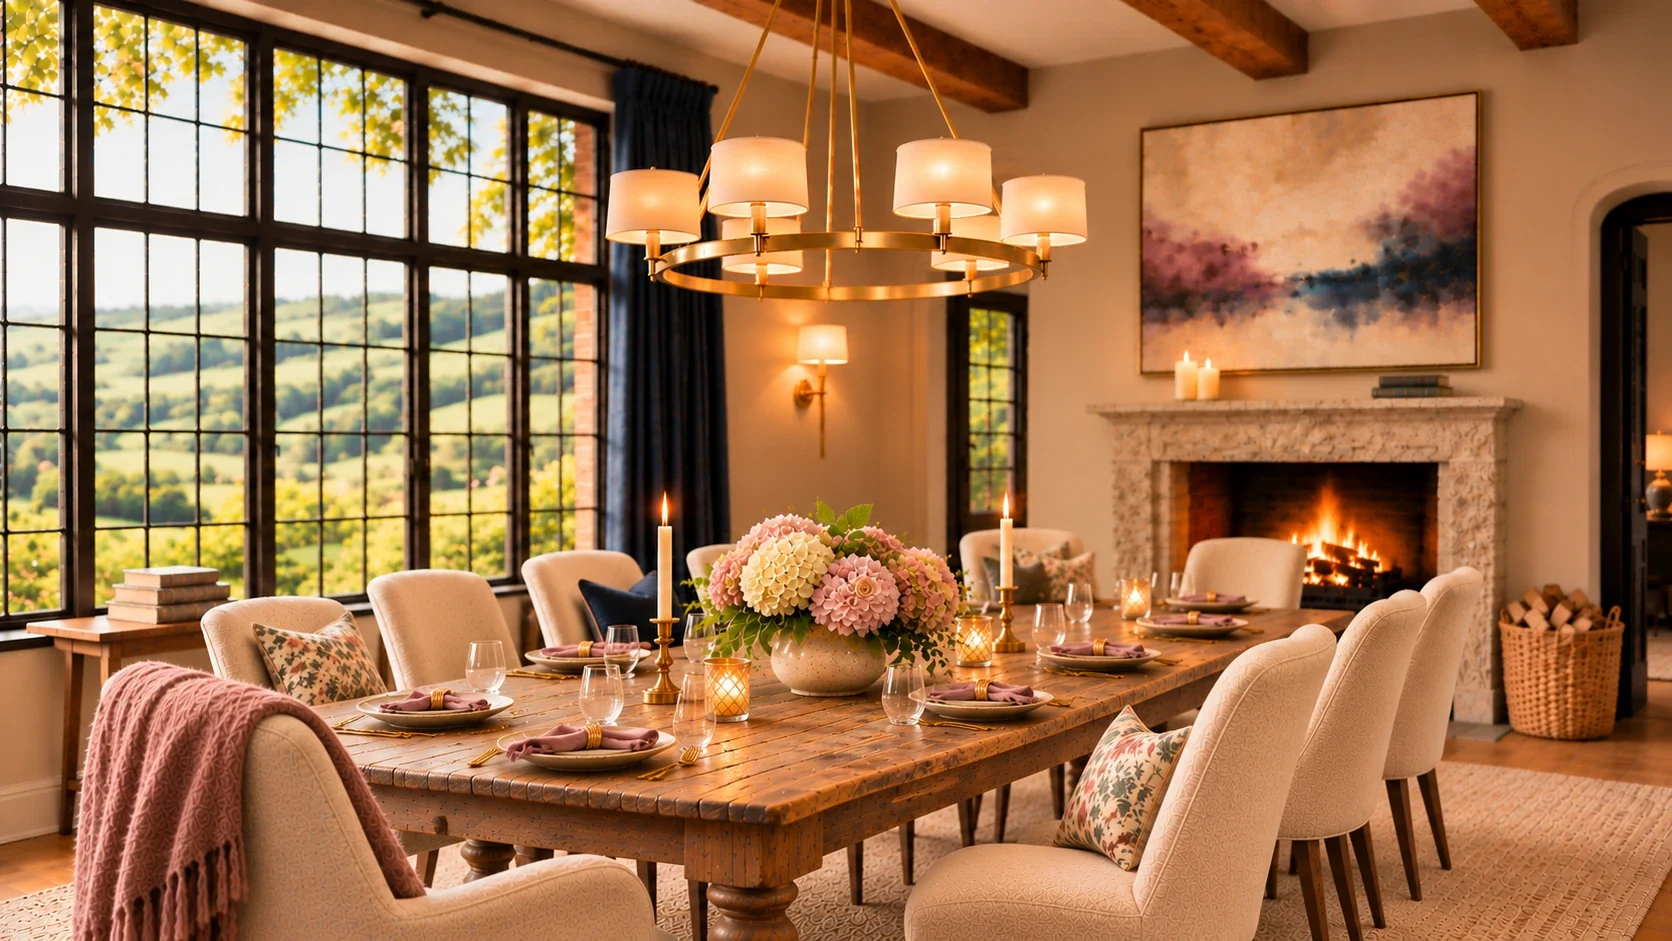
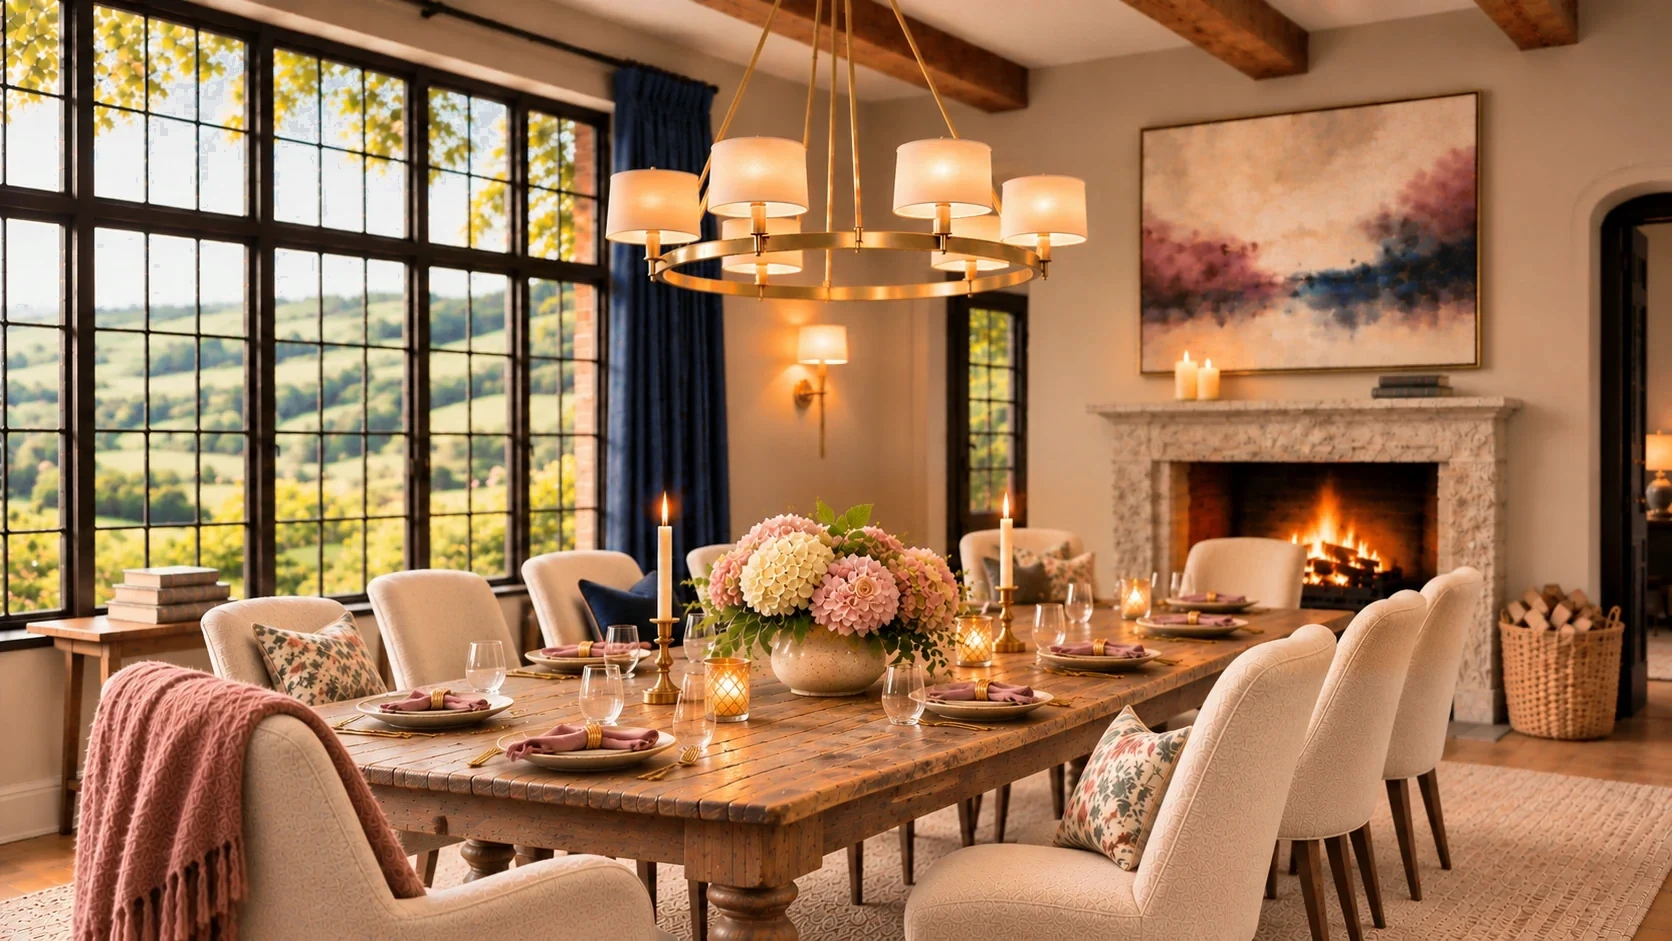
Apply the approved colour grade to the dining room photograph
Study 1 Refined: the golden cast is eased, the fire, candles, hydrangeas
and napkins keep their colour, and the curtains read as navy. The
ungraded file is kept alongside for rollback. No change to layout,
type, timing or copy.

Claude-Session: https://claude.ai/code/session_01AzQEvGFwKMB9kZGN4LFay2

diff --git a/docs/THE_UNPAVED_PATH.md b/docs/THE_UNPAVED_PATH.md
@@ -179,6 +179,13 @@ marks around the portrait `<source>` line in the `<picture>` element. The
 text positions in the portrait style block will then need re-checking against
 the new picture.
 
+**Colour.** The photograph carries the approved "Study 1 Refined" grade: the
+orange and yellow cast is eased, the fire, candles, hydrangeas and mauve
+napkins keep their original colour, and the curtains read as navy. The
+ungraded file is kept as `unpaved-dining-country-wide-original.webp`; to
+return to it, copy it over `unpaved-dining-country-wide.webp`. The portrait
+for phones should be generated from the graded photograph so the two match.
+
 **Rollback.** The earlier square photograph
 (`unpaved-dining-country.webp`) and the London room (`photo-table.webp`)
 remain in the repo. The comment inside the `<picture>` element lists the
@@ -193,8 +200,9 @@ of the seating. A dedicated portrait photograph of the same room replaces it.
 
 **How to generate it (ChatGPT Images)**
 
-1. Attach the approved desktop photograph
-   (`public/photos/unpaved-dining-country-wide.webp`) as the reference image.
+1. Attach the approved, graded desktop photograph
+   (`public/photos/unpaved-dining-country-wide.webp`, Study 1 Refined) as the
+   reference image.
 2. Ask for a portrait image at the tallest size offered (1024 x 1536, 2:3).
 3. Paste the prompt below.
 4. If an upscale option is offered, upscale 2x. Send the result as a file.
@@ -268,11 +276,8 @@ comment marks around the portrait `<source>` line in the `<picture>` element,
 give the doorway glimpse (`.ent-room`) the same file on portrait screens, and
 re-check the welcome text positions, contrast and the 21 regression checks.
 
-**Colour.** If the portrait is generated cooler than the desktop photograph,
-the two will not match. Either generate the portrait to match the desktop as
-it is, or apply the same gentle grade to the desktop photograph (a study was
-prepared; it eases the golden cast and deepens the navy while keeping the
-fire and candle glow).
+**Colour.** Use the graded desktop photograph (Study 1 Refined) as the
+reference image, so the portrait inherits the same colour.
 
 ## The personal email
 
